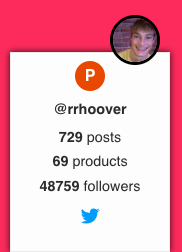
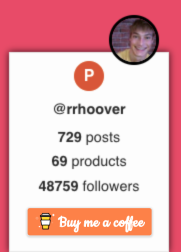
buy me coffee

diff --git a/docs/js/makerbadge.js b/docs/js/makerbadge.js
@@ -25,6 +25,11 @@ MakerBadge.prototype={
       this.twitter = settings.twitter
     }
 
+    if(settings.customHTML){
+      this.customHTML = settings.customHTML
+    }
+
+
     //only using pic in theme 2
     if(this.theme!=1){
       if(settings.pic){
@@ -50,6 +55,9 @@ MakerBadge.prototype={
     twitter.target = "_blank"
     twitter.innerHTML = '<svg height="30" data-name="Logo — FIXED" xmlns="http://www.w3.org/2000/svg" viewBox="0 0 400 400"><path fill="none" d="M0 0h400v400H0z"/><path d="M153.62 301.59c94.34 0 145.94-78.16 145.94-145.94 0-2.22 0-4.43-.15-6.63A104.36 104.36 0 0 0 325 122.47a102.38 102.38 0 0 1-29.46 8.07 51.47 51.47 0 0 0 22.55-28.37 102.79 102.79 0 0 1-32.57 12.45 51.34 51.34 0 0 0-87.41 46.78A145.62 145.62 0 0 1 92.4 107.81a51.33 51.33 0 0 0 15.88 68.47A50.91 50.91 0 0 1 85 169.86v.65a51.31 51.31 0 0 0 41.15 50.28 51.21 51.21 0 0 1-23.16.88 51.35 51.35 0 0 0 47.92 35.62 102.92 102.92 0 0 1-63.7 22 104.41 104.41 0 0 1-12.21-.74 145.21 145.21 0 0 0 78.62 23" fill="#1da1f2"/></svg>'
     //set the style based on theme
+    const customHTML = document.createElement('div');
+    customHTML.innerHTML = this.customHTML;
+    
     this.setStyle()
 
     document.getElementsByTagName('head')[0].appendChild(this.style);
@@ -70,6 +78,7 @@ MakerBadge.prototype={
     request.setRequestHeader('Authorization','Bearer ' + 'c531da26873a8dc7ea8be6d7e519f296f5f521d2d756bf9862552b6ed5f5f161 ');
 
     var that= this
+    //@TODO: separate themes out into their own sections
     request.onload = function() {
       if (request.status >= 200 && request.status < 400) {
         const data = JSON.parse(request.responseText);
@@ -78,6 +87,7 @@ MakerBadge.prototype={
         const picEl = '<img width="' + userPicSize + '" class="maker-badge__btn-img" src="' + userPic + '"/>&nbsp;&nbsp;'
         const name = that.name ? that.name : data.user.name
         username.innerHTML = '@' + data.user.username;
+
         if (that.theme === 2) {
           button.innerHTML = picEl + 'by ' + name;
         } else if (that.theme === 3) {
@@ -85,15 +95,19 @@ MakerBadge.prototype={
         } else {
           button.innerHTML = 'by ' + name;
         }
+
         profileLink.href = data.user.profile_url;
         statsList.innerHTML = '<li><b>' + data.user.posts_count + '</b>' + ' posts</li>' +
         '<li><b>' + data.user.maker_of_count + '</b>' + ' products</li>' +
         '<li><b>' + data.user.followers_count + '</b>' + ' followers</li>';
         content.appendChild(profileLink)
         content.appendChild(username);
-        content.appendChild(statsList)
+        content.appendChild(statsList);
         if (that.twitter) {
           content.appendChild(twitter)
+        }
+        if (that.customHTML) {
+          content.appendChild(customHTML)
         }
         body.appendChild(container);
       } else {
@@ -223,7 +237,7 @@ MakerBadge.prototype={
                                   left: 0;\
                                   bottom: 0;\
                                   transition: all .3s ease;\
-                                  border: 4px solid #000;\
+                                  border: 3px solid #000;\
                                   margin: auto;}'
           this.style.innerHTML = buttonImgStyle + statsListStyle + borderBxStyle + containerStyle  + buttonStyle + profileLinkStyle + isOpenStyle + contentStyle;
       }
@@ -242,9 +256,9 @@ function MakerBadge(settings){
   this.name=''
   this.twitter = ''
   this.pic=''
+  this.coffee=false
+  this.customHTML = ''
 
 }
 
 var MakerBadge = new MakerBadge()
-
-

diff --git a/docs/_layouts/landing.html b/docs/_layouts/landing.html
@@ -25,7 +25,8 @@
         position: 'right', //left or right
         theme: 3,
         name:'Grame', //I wanted to just use my first name
-        twitter: 'graeme_fulton'
+        twitter: '',
+        customHTML:'<style>.bmc-button img{width: 27px !important;margin-bottom: 1px !important;box-shadow: none !important;border: none !important;vertical-align: middle !important;}.bmc-button{line-height: 36px !important;height:37px !important;text-decoration: none !important;display:inline-flex !important;color:#ffffff !important;background-color:#FF813F !important;border-radius: 3px !important;border: 1px solid transparent !important;padding: 1px 9px !important;font-size: 23px !important;letter-spacing:0.6px !important;box-shadow: 0px 1px 2px rgba(190, 190, 190, 0.5) !important;-webkit-box-shadow: 0px 1px 2px 2px rgba(190, 190, 190, 0.5) !important;margin: 0 auto !important;font-family:"Cookie", cursive !important;-webkit-box-sizing: border-box !important;box-sizing: border-box !important;-o-transition: 0.3s all linear !important;-webkit-transition: 0.3s all linear !important;-moz-transition: 0.3s all linear !important;-ms-transition: 0.3s all linear !important;transition: 0.3s all linear !important;}.bmc-button:hover, .bmc-button:active, .bmc-button:focus {-webkit-box-shadow: 0px 1px 2px 2px rgba(190, 190, 190, 0.5) !important;text-decoration: none !important;box-shadow: 0px 1px 2px 2px rgba(190, 190, 190, 0.5) !important;opacity: 0.85 !important;color:#ffffff !important;}</style><link href="https://fonts.googleapis.com/css?family=Cookie" rel="stylesheet"><a class="bmc-button" target="_blank" href="https://www.buymeacoffee.com/RabIKVoyX"><img src="https://www.buymeacoffee.com/assets/img/BMC-btn-logo.svg" alt="Buy me a coffee"><span style="margin-left:5px">Buy me a coffee</span></a>'
         // pic:'https://pbs.twimg.com/profile_images/1032372310248972288/DWnViIum_400x400.jpg',//little profile pic used in theme 2
       });
       setTimeout(() => {
